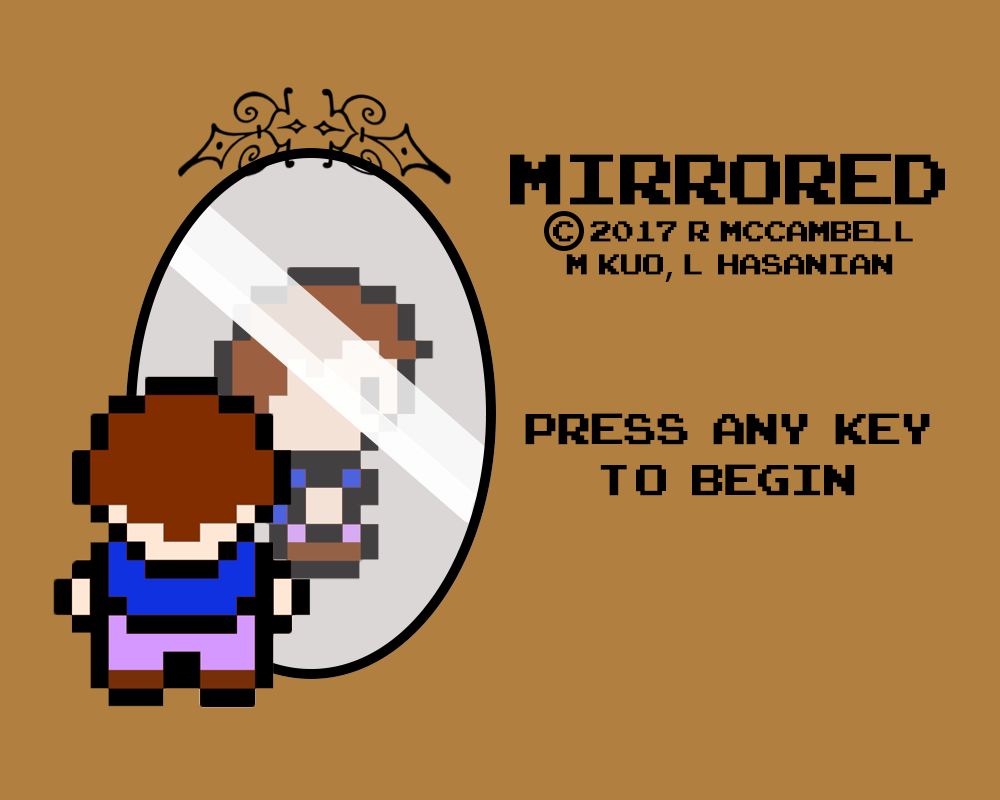
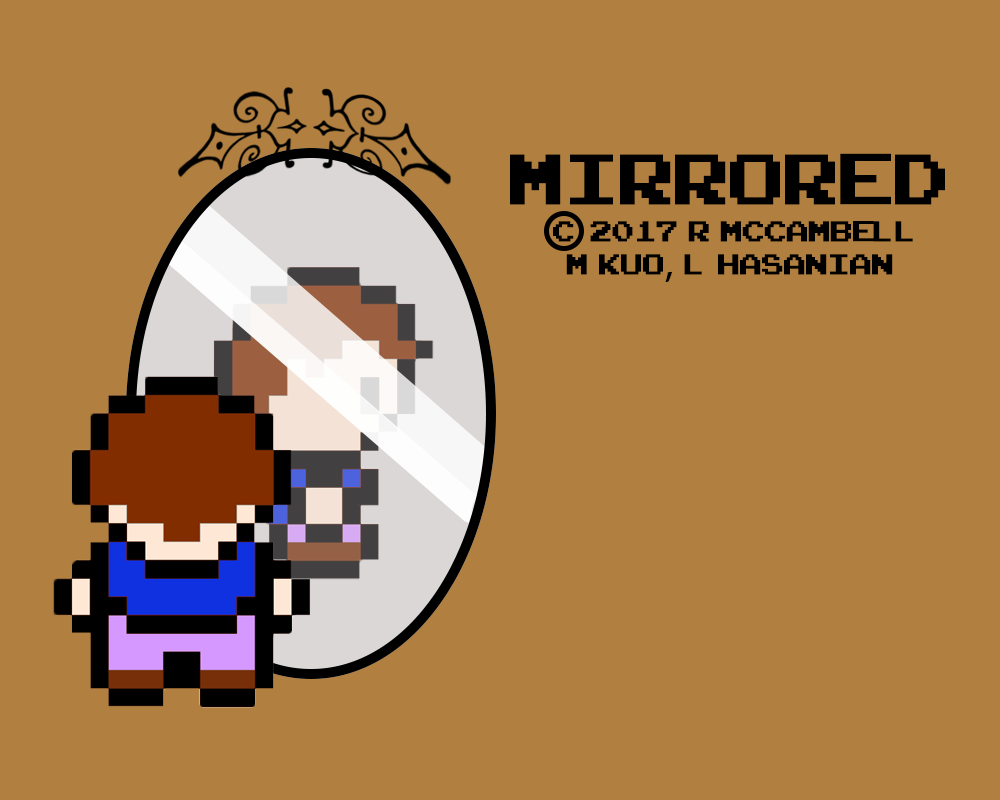
level5 complete!

Changed region(s): [[0.527, 0.5, 0.93, 0.625]]

diff --git a/src/mirrored/Level5.java b/src/mirrored/Level5.java
@@ -1,0 +1,122 @@
+package mirrored;
+
+import java.util.ArrayList;
+
+import edu.virginia.engine.display.DisplayObject;
+import edu.virginia.engine.display.Sprite;
+import edu.virginia.engine.events.Event;
+import edu.virginia.engine.events.IEventListener;
+import edu.virginia.engine.physics.PhysicsManager;
+
+public class Level5 extends Level implements IEventListener {
+
+	Ground bridge;
+	SplashTower tower1;
+	Enemy enemy1, enemy2, enemy3, enemy4;
+	private boolean winScreenShown;
+	
+	public Level5() {
+		super("Level 5", "lava_tiles.png");
+		physicsManager = new PhysicsManager();
+		
+		new Ground(0, 0, gameWidth, 475, this);
+		new Ground(375, 475, gameWidth-375, 125, this);
+		new Ground(0, 600, gameWidth, 200, this);
+		
+		// boundaries 
+		new Wall(gameWidth/2-10, 0, 20, gameHeight, this);
+		new Wall(0, 0, 20, gameHeight, this);
+		new Wall(gameWidth-20, 0, 20, gameHeight, this);
+		new Wall(0, 0, gameWidth, 20, this);
+		new Wall(0, gameHeight-20, gameWidth, 20, this);
+		
+		// left side walls
+		new Wall(150, 600, 25, 180, this);
+		new Wall(350, 300, 25, 175, this);
+		// right side walls
+		new Wall(625, 475, 125, 125, this);
+		new Wall(500, 105, 250, 25, this);
+		
+		// doors
+		Door door1 = new Door(400, 60, this);
+		Door door2 = new Door(600, 60, this);
+		door2.addEventListener(this, Events.DOOR);
+		
+		// spash towers
+		tower1 = new SplashTower("tower1", 125, 300, this);
+		
+		//buttons
+		Button tower1Button = new Button("tower1Button", 900, 75, this);
+		tower1Button.addEventListener(this, Events.BUTTON_HOLD);
+		Button arrow1Button = new Button("arrow1Button", 80, 700, this);
+		arrow1Button.addEventListener(this, Events.BUTTON_ON);
+		
+		// switches
+		Switch switch1 = new Switch("switch1", 900, 425, this);
+		switch1.addEventListener(this, Events.SWITCH);
+		
+		// players
+		Player player1 = new Player(false, (0.20) * gameWidth, 720, this);
+		Player player2 = new Player(true, (0.80) * gameWidth, 720, this);
+		player1.setOtherPlayer(player2);
+		player2.setOtherPlayer(player1);
+
+		player1.addEventListener(this, Events.DEATH);
+		player2.addEventListener(this, Events.DEATH);
+
+		// left side enemies
+		enemy1 = new Enemy("enemy1", "ghostSheet.png", EnemyType.still, player1, this);
+		enemy1.setPosition(50,650);
+		enemy2 = new Enemy("enemy2", "ghostSheet.png", EnemyType.still, player1, this);
+		enemy2.setPosition(125, 650);
+		enemy3 = new Enemy("enemy3", "ghostSheet.png", EnemyType.still, player1, this);
+		enemy3.setPosition(50,725);
+		enemy4 = new Enemy("enemy4", "ghostSheet.png", EnemyType.still, player1, this);
+		enemy4.setPosition(125, 725);
+		// right side enemies
+		Enemy enemy5 = new Enemy("enemy5", "ghostSheet.png", EnemyType.staticY, player2, this);
+		enemy5.setPosition(700, 100);
+		Enemy enemy6 = new Enemy("enemy6", "ghostSheet.png", EnemyType.staticX, player2, this);
+		enemy6.setPosition(600, 200);
+	}
+
+	@Override
+	public void update(ArrayList<Integer> pressedKeys) {
+		super.update(pressedKeys);
+		physicsManager.update();
+  	}
+	
+	@Override
+	public void handleEvent(Event event) {
+		if(event.getType().equals(Events.DEATH)){
+			Main.getInstance().resetLevel();
+		}
+		if(event.getType().equals(Events.DOOR)) {
+			winScreenShown = true;
+			Sprite win = new Sprite("win", "win.png");
+			win.setPosition(500, 400);
+			win.setzOrder(1);
+			this.addChild(win);
+		}
+		if(event.getType().equals(Events.BUTTON_HOLD)){
+			DisplayObject obj = ((DisplayObject) event.getSource());
+			if (obj.getId().equals("tower1Button")) {
+				tower1.activate();
+			} 
+		}
+		if(event.getType().equals(Events.BUTTON_ON)){
+			new Arrow(gameWidth-10, 60, -4, 0, this);
+		}
+		if(event.getType().equals(Events.SWITCH)){
+			DisplayObject obj = ((DisplayObject)event.getSource());
+			if (obj.getId().equals("switch1")) {
+				new Ground(0, 475, 150, 125, this);
+				enemy1.setType(EnemyType.homing);
+				enemy2.setType(EnemyType.homing);
+				enemy3.setType(EnemyType.homing);
+				enemy4.setType(EnemyType.homing);
+			}
+		}
+	}
+
+}

diff --git a/src/mirrored/Level0.java b/src/mirrored/Level0.java
@@ -5,20 +5,37 @@ import java.util.ArrayList;
 import edu.virginia.engine.display.Sprite;
 import edu.virginia.engine.events.Event;
 import edu.virginia.engine.events.IEventListener;
+import edu.virginia.engine.tweening.Tween;
+import edu.virginia.engine.tweening.TweenManager;
+import edu.virginia.engine.tweening.TweenTransitions;
+import edu.virginia.engine.tweening.TweenableParams;
 
 // Start Screen
 
 public class Level0 extends Level implements IEventListener {
 
+	static TweenManager myTweenManager = new TweenManager();
+	double time;
+	
 	public Level0() {
 		super("startScreen", "StartScreen.png");
-		this.setPivotPoint(0,0);
+		
+		Sprite begin = new Sprite("begin", "begin.png");
+		this.addChild(begin);
+		begin.setPivotPoint(0,0);
+		begin.setPosition(500,380);
+		/*
+		Tween beginTween = new Tween(begin, 100, TweenTransitions.FLASH);
+		beginTween.animate(TweenableParams.ALPHA, 1.0, 0.0);
+		myTweenManager.add(beginTween);
+		*/
 	}
 	
 	@Override
 	public void update(ArrayList<Integer> pressedKeys) {
 		super.update(pressedKeys);
 		if(!pressedKeys.isEmpty()) Main.getInstance().nextLevel();
+		myTweenManager.update(5);
 	}
 
 	@Override

diff --git a/src/mirrored/Level2.java b/src/mirrored/Level2.java
@@ -22,7 +22,7 @@ public class Level2 extends Level implements IEventListener {
 		new Wall(0, 0, 20, gameHeight, this);
 		new Wall(gameWidth-20, 0, 20, gameHeight, this);
 		new Wall(0, 0, gameWidth, 20, this);
-		new Wall(0, gameHeight-40, gameWidth, 20, this);
+		new Wall(0, gameHeight-20, gameWidth, 20, this);
 		
 		// level 2
 		new Wall(0, 600, 400, 25, this);
@@ -39,11 +39,6 @@ public class Level2 extends Level implements IEventListener {
 		door1.addEventListener(this, Events.DOOR);
 		Door door2 = new Door(600, 100, this);
 //		door2.addEventListener(this, Events.DOOR);
-		
-		// buttons
-//		Button button1 = new Button("button1", 60, 250, this);
-//		button1.addEventListener(this, Events.BUTTON_ON);
-//		button1.addEventListener(this, Events.BUTTON_OFF);
 		
 		// players
 		Player player1 = new Player(false, (0.05) * gameWidth, 720, this);

diff --git a/src/mirrored/Enemy.java b/src/mirrored/Enemy.java
@@ -41,11 +41,28 @@ public class Enemy extends Character {
 			physics.setVelocity(0,0);
 			break;
 		}
-		
 	}
 	
 	public void setTarget(Player p){
 		target = p;
+	}
+	
+	public void setType(EnemyType type){
+		this.type = type;
+		switch (type) {
+		case staticX:
+			physics.setVelocity(speed, 0);
+			break;
+		case staticY:
+			physics.setVelocity(0, speed);
+			break;
+		case homing:
+			physics.setVelocity(0, 0);
+			break;
+		case radiusHoming:
+			physics.setVelocity(0,0);
+			break;
+		}
 	}
 	
 	@Override
@@ -62,7 +79,7 @@ public class Enemy extends Character {
 			break;
 		case radiusHoming:
 			double radius = Math.sqrt((target.getX()-this.getX())*(target.getX()-this.getX()) + (target.getY()-this.getY())*(target.getY()-this.getY()));
-			if (radius < 200) {
+			if (radius < 100) {
 				moveTowards();
 			}
 			break;

diff --git a/src/mirrored/Main.java b/src/mirrored/Main.java
@@ -23,13 +23,13 @@ public class Main extends Game {
 		super("Prototype", gameWidth + 6, gameHeight + 29);
 		instance = this;
 
-		levels = Arrays.asList(Level0.class, Level1.class, Level2.class, Level3.class);
+		levels = Arrays.asList(Level0.class, Level1.class, Level2.class, Level3.class, Level5.class);
 		level = new Level0();
 		
 		addChild(level);
 
 		mySoundManager.loadSound("BGmusic", "gameMusic.wav");
-		mySoundManager.playSound("BGmusic", true);
+		//mySoundManager.playSound("BGmusic", true);
 	}
 	
 	public Level getLevel() {

diff --git a/src/mirrored/Level3.java b/src/mirrored/Level3.java
@@ -119,11 +119,7 @@ public class Level3 extends Level implements IEventListener {
 			Main.getInstance().resetLevel();
 		}
 		if (event.getType().equals(Events.DOOR) && !winScreenShown) {
-			winScreenShown = true;
-			Sprite win = new Sprite("win", "win.png");
-			win.setPosition(500, 400);
-			win.setzOrder(1);
-			this.addChild(win);
+			Main.getInstance().nextLevel();
 		}
 	}
 }

diff --git a/src/mirrored/EnemyType.java b/src/mirrored/EnemyType.java
@@ -1,5 +1,5 @@
 package mirrored;
 
 public enum EnemyType {
-	staticX, staticY, homing, radiusHoming
+	still, staticX, staticY, homing, radiusHoming
 }
